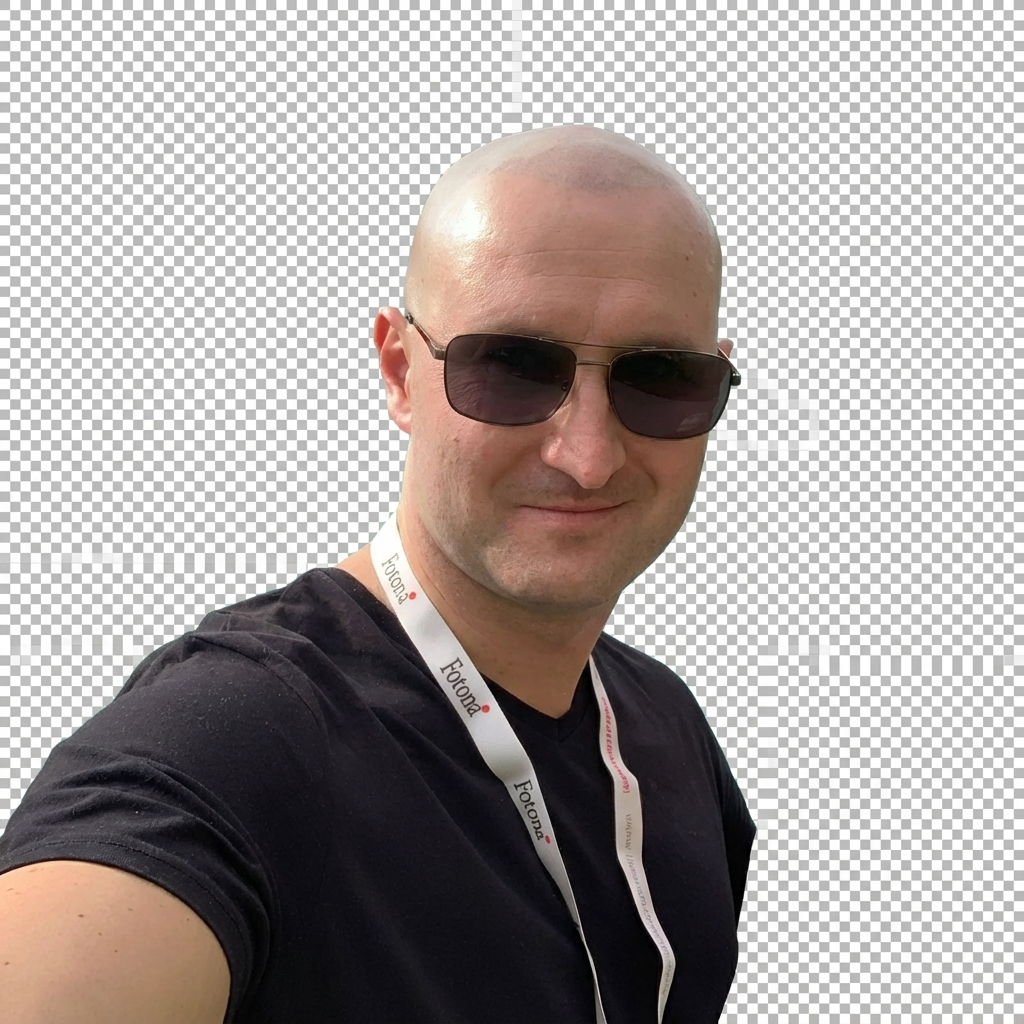
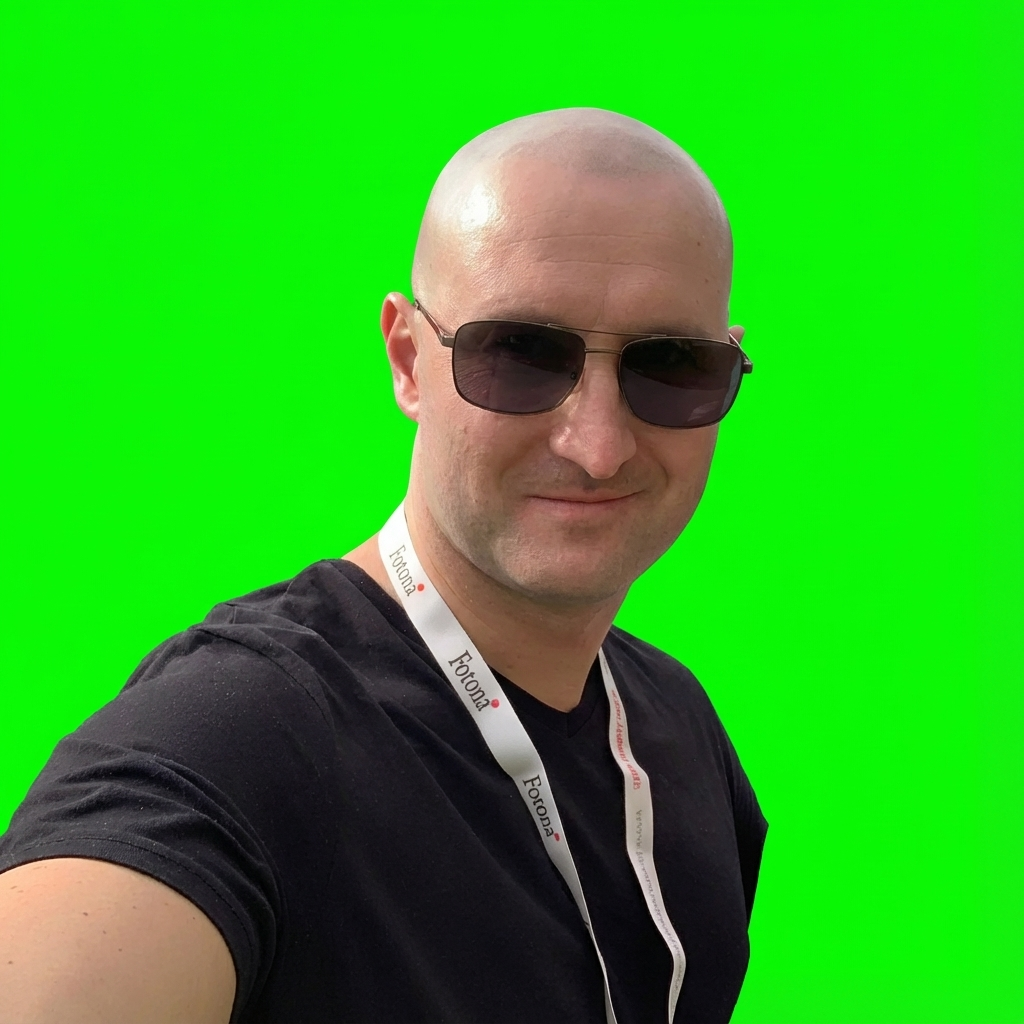
fix: use green screen chroma key for doctor cutouts

diff --git a/src/components/SelfieBooth.tsx b/src/components/SelfieBooth.tsx
@@ -27,10 +27,9 @@ export default function SelfieBooth() {
     // Dynamic canvas size based on window to fit mobile screens better?
     // For now, let's stick to a fixed high-res internal resolution and CSS scaling.
 
-    // Helper to remove white/gray checkerboard background
+    // Helper to remove GREEN SCREEN background
     const cleanImage = (img: HTMLImageElement): Promise<HTMLImageElement> => {
         return new Promise((resolve) => {
-            const dim = 1000; // max dim for processing
             const canvas = document.createElement("canvas");
             canvas.width = img.width;
             canvas.height = img.height;
@@ -41,18 +40,17 @@ export default function SelfieBooth() {
             const imageData = ctx.getImageData(0, 0, canvas.width, canvas.height);
             const data = imageData.data;
 
-            // Loop pixels
+            // Green Screen Logic
             for (let i = 0; i < data.length; i += 4) {
                 const r = data[i];
                 const g = data[i + 1];
                 const b = data[i + 2];
 
-                // Detect White or Light Gray (Checkerboard keys)
-                const isWhite = r > 240 && g > 240 && b > 240;
-                const isGray = r > 180 && r < 230 && g > 180 && g < 230 && b > 180 && b < 230 && Math.abs(r - g) < 10 && Math.abs(g - b) < 10;
-
-                if (isWhite || isGray) {
-                    data[i + 3] = 0; // Alpha 0
+                // Simple Green Key: G is dominant and significantly larger than R and B
+                // Adjust thresholds if needed. 
+                // Using a slightly more tolerant threshold for generated AI green (#00FF00)
+                if (g > 100 && g > r + 40 && g > b + 40) {
+                    data[i + 3] = 0; // Transparent
                 }
             }
 
@@ -147,26 +145,6 @@ export default function SelfieBooth() {
                     ctx.translate(targetW, 0);
                     ctx.scale(-1, 1);
 
-                    // When mirrored (scale -1,1), drawing at X draws at (Width - X) basically.
-                    // We need to draw the video so it fills the screen centered.
-                    // If we draw at offsetX (which is negative if video is wider), 
-                    // in mirrored mode it works slightly differently.
-                    // Let's use simple logic: transform center, scale, untransform.
-                    // Or just trial & error. Standard mirror:
-
-                    // If we draw at (offsetX, offsetY, drawW, drawH) in the mirrored context:
-                    // The image is flipped around the right edge (targetW).
-                    // If offsetX = -100. It draws from -100 to drawW-100.
-                    // Mirrored: It draws from targetW - (-100) = targetW + 100 ... going LEFT?
-                    // Expected: Left side of video should terminate at Left side of canvas (mirrored).
-                    // Actually, simpler method: 
-                    // 1. Scale -1, 1
-                    // 2. Draw image at -targetW + offsetX ?
-
-                    // Let's stick to the Proven Method:
-                    // Translate(targetW, 0) -> Scale(-1, 1) -> Draw(0,0) draws top-right going left.
-                    // We want to draw at the correct offset.
-                    // If we draw at offsetX, offsetY.
                     ctx.drawImage(video, offsetX, offsetY, drawW, drawH);
 
                     ctx.restore();
@@ -174,11 +152,12 @@ export default function SelfieBooth() {
                     // 2. Draw Doctor Pose (Overlay)
                     if (poseImg) {
                         // Logic: Doctor should be at the bottom, reasonably sized.
-                        // Let's make doctor 80% of width?
+                        // Let's make doctor 85% of width?
                         const dW = targetW * 0.85;
                         const dH = (dW / poseImg.width) * poseImg.height;
 
                         // Position: Bottom LEFT
+                        // To place at left: dX = -50 (slight overlap off-screen) or 0
                         const dX = -50;
                         const dY = targetH - dH;
 
